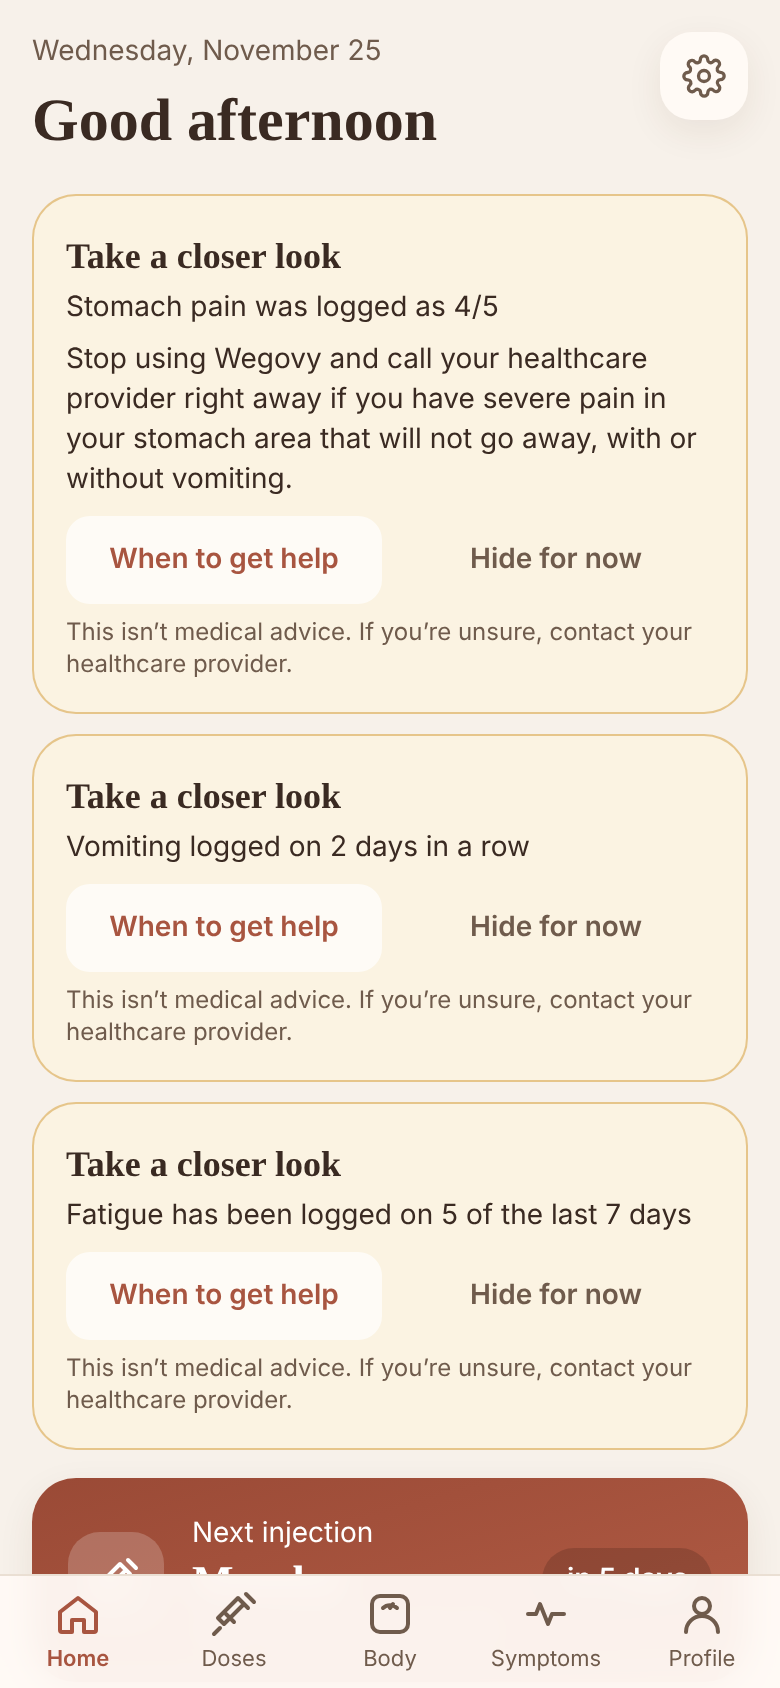
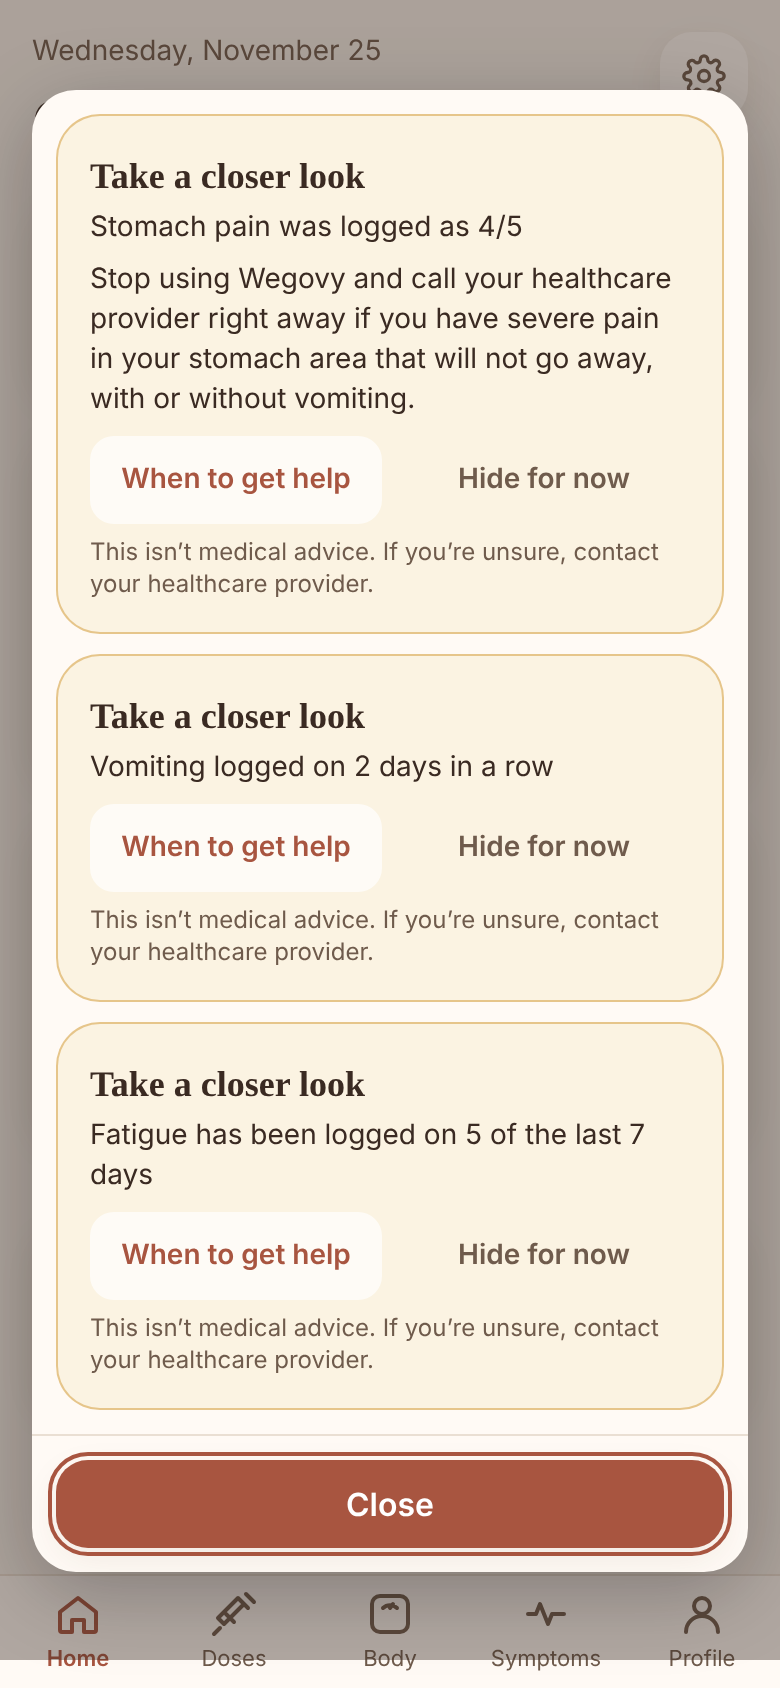
Home alerts as a pop-up over the dashboard with a floating reopen pill (owner request)
Pop-up opens for alerts not seen yet; Close / tap outside dismisses;
'N to look at' pill reopens while alerts remain. Symptoms keeps inline
cards. Extra bottom padding so the pill never covers content; brand
focus ring.

Claude-Session: https://claude.ai/code/session_01E8m8svjFKtLT3zDarJmxVH

diff --git a/src/components/AlertCards.tsx b/src/components/AlertCards.tsx
@@ -1,54 +1,113 @@
-import { useState } from 'react';
+import { useEffect, useRef, useState } from 'react';
 import type { Symptom } from '../db/db';
-import { ALERT_FOOTER, ALERT_TITLE, symptomAlerts, visibleAlerts } from '../lib/symptomAlerts';
+import { ALERT_FOOTER, ALERT_TITLE, symptomAlerts, visibleAlerts, type SymptomAlert } from '../lib/symptomAlerts';
+import { useOverlay } from '../lib/useOverlay';
 import HelpPopup from './HelpPopup';
+import { Button } from './ui';
 
-// Per-device convenience only: which alerts were hidden, and the newest entry they covered.
-const HIDDEN_KEY = 'steady.alertsHidden';
-function readHidden(): Record<string, string> {
+// Per-device convenience only (not health data).
+const HIDDEN_KEY = 'steady.alertsHidden'; // "Hide for now": type → newest entry covered
+const SEEN_KEY = 'steady.alertsSeen'; // pop-up already shown: type → newest entry seen
+function readMap(key: string): Record<string, string> {
   try {
-    const v: unknown = JSON.parse(localStorage.getItem(HIDDEN_KEY) ?? '{}');
+    const v: unknown = JSON.parse(localStorage.getItem(key) ?? '{}');
     return v && typeof v === 'object' && !Array.isArray(v) ? (v as Record<string, string>) : {};
   } catch {
     return {};
   }
 }
-function writeHidden(h: Record<string, string>) {
+function writeMap(key: string, m: Record<string, string>) {
   try {
-    localStorage.setItem(HIDDEN_KEY, JSON.stringify(h));
+    localStorage.setItem(key, JSON.stringify(m));
   } catch {
-    /* storage unavailable: the card shows again next time */
+    /* storage unavailable: cards simply show again next time */
   }
 }
 
-/** "Take a closer look" cards for strong or long-lasting symptoms. Not medical advice. */
-export default function AlertCards({ symptoms, now }: { symptoms: Symptom[]; now?: Date }) {
-  const [hidden, setHidden] = useState(readHidden);
+/**
+ * "Take a closer look" cards for strong or long-lasting symptoms. Not medical advice.
+ * inline: cards in the page (Symptoms). popup: a pop-up over the page that opens for alerts not seen yet,
+ * plus a floating pill to reopen it (Home) — the page layout never moves.
+ */
+export default function AlertCards({ symptoms, now, mode = 'inline' }: { symptoms: Symptom[]; now?: Date; mode?: 'inline' | 'popup' }) {
+  const [hidden, setHidden] = useState(() => readMap(HIDDEN_KEY));
   const [helpOpen, setHelpOpen] = useState(false);
   const alerts = visibleAlerts(symptomAlerts(symptoms, now), hidden);
+  const unseen = alerts.some((a) => !(readMap(SEEN_KEY)[a.type] >= a.latest));
+  const [popupOpen, setPopupOpen] = useState(mode === 'popup' && unseen);
+  useEffect(() => {
+    if (mode === 'popup' && unseen) setPopupOpen(true); // a new qualifying entry arrived while on the page
+  }, [mode, unseen]);
+
   if (alerts.length === 0) return null;
 
-  const hide = (type: string, latest: string) => {
-    const next = { ...hidden, [type]: latest };
-    writeHidden(next);
+  const hide = (a: SymptomAlert) => {
+    const next = { ...hidden, [a.type]: a.latest };
+    writeMap(HIDDEN_KEY, next);
     setHidden(next);
   };
+  const closePopup = () => {
+    writeMap(SEEN_KEY, { ...readMap(SEEN_KEY), ...Object.fromEntries(alerts.map((a) => [a.type, a.latest])) });
+    setPopupOpen(false);
+  };
+  const cards = alerts.map((a) => <AlertCard key={a.type} alert={a} onHelp={() => setHelpOpen(true)} onHide={() => hide(a)} />);
+  const help = helpOpen && <HelpPopup onClose={() => setHelpOpen(false)} />;
 
+  if (mode === 'inline') {
+    return (
+      <div className="space-y-2.5">
+        {cards}
+        {help}
+      </div>
+    );
+  }
   return (
-    <div className="space-y-2.5">
-      {alerts.map((a) => (
-        <section key={a.type} className="rounded-card border border-gold/60 bg-[#fbf3e2] p-4" aria-label={`${ALERT_TITLE}: ${a.reason}`}>
-          <p className="font-serif text-lg font-semibold">{ALERT_TITLE}</p>
-          <p className="mt-0.5 text-sm">{a.reason}</p>
-          {a.extra && <p className="mt-1.5 text-sm">{a.extra}</p>}
-          <div className="mt-2 flex gap-2">
-            <button type="button" onClick={() => setHelpOpen(true)} className="min-h-11 flex-1 rounded-xl bg-white/70 px-3 text-sm font-semibold text-accent">When to get help</button>
-            <button type="button" onClick={() => hide(a.type, a.latest)} className="min-h-11 flex-1 rounded-xl px-3 text-sm font-semibold text-muted">Hide for now</button>
-          </div>
-          <p className="mt-1.5 text-xs text-muted">{ALERT_FOOTER}</p>
-        </section>
-      ))}
-      {helpOpen && <HelpPopup onClose={() => setHelpOpen(false)} />}
+    <>
+      {popupOpen ? (
+        <AlertPopup onClose={closePopup}>{cards}</AlertPopup>
+      ) : (
+        <button
+          type="button"
+          onClick={() => setPopupOpen(true)}
+          className="fixed right-4 bottom-[calc(4.5rem+env(safe-area-inset-bottom))] z-20 flex min-h-11 items-center gap-2 rounded-full border border-gold/70 bg-[#fbf3e2] px-4 text-sm font-semibold shadow-soft"
+        >
+          <span className="size-2.5 rounded-full bg-gold" aria-hidden />
+          {alerts.length} to look at
+        </button>
+      )}
+      {help}
+    </>
+  );
+}
+
+function AlertCard({ alert: a, onHelp, onHide }: { alert: SymptomAlert; onHelp: () => void; onHide: () => void }) {
+  return (
+    <section className="rounded-card border border-gold/60 bg-[#fbf3e2] p-4" aria-label={`${ALERT_TITLE}: ${a.reason}`}>
+      <p className="font-serif text-lg font-semibold">{ALERT_TITLE}</p>
+      <p className="mt-0.5 text-sm">{a.reason}</p>
+      {a.extra && <p className="mt-1.5 text-sm">{a.extra}</p>}
+      <div className="mt-2 flex gap-2">
+        <button type="button" onClick={onHelp} className="min-h-11 flex-1 rounded-xl bg-white/70 px-3 text-sm font-semibold text-accent">When to get help</button>
+        <button type="button" onClick={onHide} className="min-h-11 flex-1 rounded-xl px-3 text-sm font-semibold text-muted">Hide for now</button>
+      </div>
+      <p className="mt-1.5 text-xs text-muted">{ALERT_FOOTER}</p>
+    </section>
+  );
+}
+
+function AlertPopup({ onClose, children }: { onClose: () => void; children: React.ReactNode }) {
+  useOverlay(onClose);
+  const btn = useRef<HTMLButtonElement>(null);
+  useEffect(() => btn.current?.focus(), []);
+  return (
+    <div className="fixed inset-0 z-40 flex items-center justify-center p-4" role="dialog" aria-modal="true" aria-label={ALERT_TITLE}>
+      <div className="absolute inset-0 bg-ink/40 animate-[fade_.2s_ease-out]" onClick={onClose} />
+      <div className="relative flex max-h-[88dvh] w-full max-w-md flex-col overflow-hidden rounded-card bg-surface shadow-[0_10px_40px_rgb(0_0_0/0.25)] animate-[fade_.2s_ease-out]">
+        <div className="space-y-2.5 overflow-y-auto overscroll-contain p-3">{children}</div>
+        <div className="border-t border-line p-3">
+          <Button ref={btn} className="w-full" onClick={onClose}>Close</Button>
+        </div>
+      </div>
     </div>
   );
 }

diff --git a/src/components/HelpPopup.tsx b/src/components/HelpPopup.tsx
@@ -9,7 +9,7 @@ export default function HelpPopup({ onClose }: { onClose: () => void }) {
   const btn = useRef<HTMLButtonElement>(null);
   useEffect(() => btn.current?.focus(), []);
   return (
-    <div className="fixed inset-0 z-40 flex items-center justify-center p-4" role="dialog" aria-modal="true" aria-label="When to get help">
+    <div className="fixed inset-0 z-50 flex items-center justify-center p-4" role="dialog" aria-modal="true" aria-label="When to get help">
       <div className="absolute inset-0 bg-ink/40 animate-[fade_.2s_ease-out]" onClick={onClose} />
       <div className="relative flex max-h-[88dvh] w-full max-w-md flex-col overflow-hidden rounded-card bg-surface shadow-[0_10px_40px_rgb(0_0_0/0.25)] animate-[fade_.2s_ease-out]">
         <div className="overflow-y-auto overscroll-contain p-3">

diff --git a/src/App.tsx b/src/App.tsx
@@ -69,7 +69,7 @@ export default function App() {
 
   return (
     <div className="mx-auto min-h-dvh max-w-md">
-      <main className="px-4 pt-[max(1rem,env(safe-area-inset-top))] pb-28">
+      <main className="px-4 pt-[max(1rem,env(safe-area-inset-top))] pb-40">
         {route === 'home' && <Home profile={profile} />}
         {route === 'injections' && <Injections key={params.toString()} profile={profile} backHref={backHref} startAdding={startAdding} />}
         {route === 'weight' && (

diff --git a/src/index.css b/src/index.css
@@ -31,3 +31,6 @@ body { -webkit-text-size-adjust: 100%; -webkit-tap-highlight-color: transparent;
 @keyframes rise { from { transform: translateY(100%); } to { transform: translateY(0); } }
 @keyframes fade { from { opacity: 0; } to { opacity: 1; } }
 @media (prefers-reduced-motion: reduce) { * { animation: none !important; } }
+
+/* Calm, on-brand keyboard focus ring. */
+:focus-visible { outline: 2px solid var(--color-accent); outline-offset: 2px; }

diff --git a/src/pages/Home.tsx b/src/pages/Home.tsx
@@ -62,7 +62,7 @@ export default function Home({ profile }: { profile: Profile }) {
         </a>
       ) : (
         <>
-          <AlertCards symptoms={symptoms} now={now} />
+          <AlertCards symptoms={symptoms} now={now} mode="popup" />
           <WeighInCard dayKeys={weights.map((w) => w.date)} now={now} />
           <DoseHero last={injections[0]} weekday={profile.injectionWeekday} now={now} />
 

diff --git a/docs/workflows/04b-symptom-alerts.md b/docs/workflows/04b-symptom-alerts.md
@@ -87,6 +87,8 @@ Token Steward trims applied: questions folded into one defaults list; rule tests
 
 Build note: the dismissal store and the cards were combined into one component (`src/components/AlertCards.tsx`); rule thresholds are named constants in `src/lib/symptomAlerts.ts`. Typographic apostrophes (’) are used in the footer, as elsewhere in the app.
 
+**Owner change after screenshots (2026-11-25):** on Home the cards are a pop-up over the dashboard instead of sitting in the page. It opens automatically when there is an alert not seen yet; Close or tapping outside dismisses it; while alerts remain, a small floating "N to look at" pill reopens it. "Hide for now" works as before. The Symptoms screen keeps the cards inline.
+
 ## Review checkpoints
 - Token Steward: before start
 - Code Reviewer: before commit
